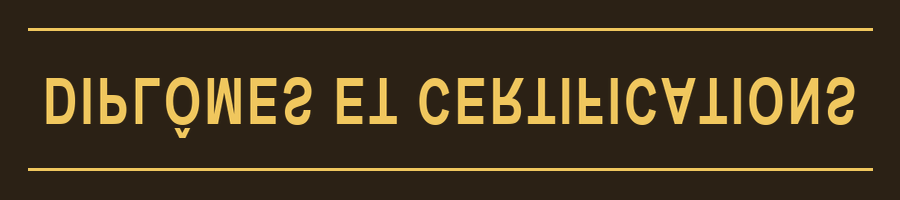
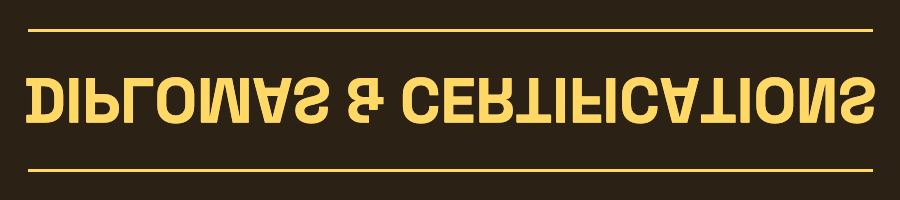
fix(café/décor): le bandeau des diplômes passe à l'anglais, les mains du client rejoignent son clavier, le cadre des télés s'élargit
Trois retouches signalées à l'œil par Simon, chacune vérifiée par la mesure et
non par l'impression.

LE BANDEAU — « DIPLÔMES ET CERTIFICATIONS » était le dernier français accroché
à un mur dans un café qui est anglais partout ailleurs, script et panneau texte
compris. Repeint en « DIPLOMAS & CERTIFICATIONS », même Space Grotesk gras,
mêmes filets, même or #ffd866 sur #2b2115, et toujours stocké v-flippé comme
tout ce qui vit sous tex/. La capitale monte de 40,6 à 44,1 px, soit +9 % — la
largeur est le plafond, pas le goût : la ligne est unique et l'anglais fait 25
signes contre 26. Plus gros demanderait un mot plus court ou une deuxième
ligne. LABEL_TEX_V passe à 5, sans quoi les visiteurs de retour garderaient
l'ancienne plaque en cache pendant des heures.

LES MAINS DU CLIENT AU COMPTOIR — mesurées dans la scène : poignets à y 1,206
à 1,218 pour un clavier à 1,231 et un comptoir à 1,218. Ils étaient donc 1,5 à
2,5 cm SOUS la surface, ce qui se voyait exactement comme ce que Simon a
photographié : des avant-bras qui traversent la table. En x et z ils tombaient
pourtant juste sur le clavier.
Le commentaire promettait une IK à deux segments résolue proprement. Elle
l'était — sur le papier. Le solveur planaire ignorait les .2 de roulis d'épaule
et les .09 de tangage de buste que cette même pose ajoute, et les deux
descendent la main. Un centimètre d'erreur, ici, sépare « il tape » de « il
passe au travers du meuble ».
[…]

Changed region(s): [[0.0311, 0.36, 0.9956, 0.69], [0.0311, 0.12, 0.9644, 0.18], [0.0311, 0.84, 0.9644, 0.87]]

diff --git a/index.html b/index.html
@@ -2761,10 +2761,19 @@ const texLoader=new THREE.TextureLoader();
    plaque for hours — which is exactly how « MON PALMARES » survived its own
    repaint on Simon's screen. A version in the query is a new URL, so every
    returning visitor gets the new paint on a plain reload. */
-const LABEL_TEX_V="4";   /* v3 un-mirrored the palmares banner (the bake
+const LABEL_TEX_V="5";   /* v3 un-mirrored the palmares banner (the bake
    was stored rotated 180° where flipY=false expects a v-flip only);
    v4 repaints it entirely — bold upright Space Grotesk, bigger and
-   brighter, because the engraved italic was unreadable from the room */
+   brighter, because the engraved italic was unreadable from the room;
+   v5 puts it in English. « DIPLÔMES ET CERTIFICATIONS » was the last
+   French left on a wall in a café that is English everywhere else, script
+   and panel included. The type went up with it, though only by 9% — the
+   banner is one line and the English runs 25 characters against 26, so
+   the width is the ceiling, not the design. Anything genuinely larger
+   wants a shorter word or a second line.
+   This file is hand-painted and NOT regenerated by preprocess_cafe_glb.py
+   (which only extracts what the exporter baked): re-run of the pipeline
+   will not bring the French back, but it will not repaint this either. */
 function labelTex(name){
   const t=texLoader.load("tex/"+name+".png?v="+LABEL_TEX_V);
   t.flipY=false;
@@ -4158,11 +4167,20 @@ function drawTV(t){
      · the big one on the bare green stretch right of the fridge, under
        the jar shelf (bottom of the shelf: y=2.25). Nothing else has ever
        hung there and the room reads empty on that side. */
-  /* The frame is 6 cm all round and the bezel is SIZED FROM THE PICTURE,
+  /* The frame is 10 cm all round and the bezel is SIZED FROM THE PICTURE,
      not the other way round: the old pair of hand-set outer sizes left
      4.3 cm above and below the small set and 3.9 cm on the big one, which
-     at room distance is not a frame, it is a rounding error. */
-  const FRAME=.06;
+     at room distance is not a frame, it is a rounding error.
+     Six was still too little. The bezel is a solid box and the picture is
+     a plane standing 7 mm proud of it — it HAS to be, or the two faces
+     z-fight — so a narrow border reads as an image laid ON the television
+     rather than set INTO it, and at a glance the picture looks like it
+     overflows its own set. Ten centimetres is a real surround: it costs
+     the small screen 7% of its picture and the big one 5%, and buys back
+     the one thing a television has to say for itself, which is where it
+     ends. Outer widths are untouched, so nothing moves on the wall and
+     the big set still clears the drinks fridge. */
+  const FRAME=.10;
   /* The big one is 1.70 m at x=5.85, not 2.06 m at 5.68: at that width
      and that spot its left third sat BEHIND the drinks fridge. The
      picture stands 7 mm proud of the frame, so it cleared the fridge a
@@ -6260,13 +6278,20 @@ function sitLayer(a,buf,dt){
   addPose(buf,SEAT_POSE,easeInOut(s.k));
 }
 /* ---- typing ----
-   These angles are SOLVED, not guessed. The old pair (-.62 shoulder,
-   -.95 elbow) put his wrists 12 cm below the keyboard and pointing into
-   the room: he was typing on thin air, a foot short of his own laptop.
-   Two-link IK against the real numbers — shoulder at y 1.335, keyboard
-   at 1.231 and .50 forward, upper arm .30, forearm .25 — gives shoulder
-   -1.044 and elbow -.794, which lands the wrist at (-.085, +.500) from
-   the shoulder: on the keys.
+   These angles are MEASURED in the running scene, which is not the same
+   thing as solved on paper. The first pair (-.62 shoulder, -.95 elbow)
+   put his wrists 12 cm below the keyboard and pointing into the room. The
+   second (-1.044 / -.794) came from a two-link IK — shoulder y 1.335,
+   keyboard 1.231 and .50 forward, upper arm .30, forearm .25 — and it was
+   still 1 to 3 cm SHORT: the planar solve does not know about the .2 of
+   shoulder roll or the .09 of chest pitch this same pose adds, and both
+   of them drop the hand. The counter top sits at 1.218 and the keys at
+   1.231, so a centimetre of error is the difference between typing and
+   reaching through the furniture — which is exactly what it looked like.
+   Swept live against the rig instead: the shoulder alone opens to -1.16
+   and the wrist lands 2.7 cm ABOVE the keys, hands resting on them, with
+   room to spare for what breathing and the key-strike wobble take back.
+   The elbow keeps its IK value; only the term the IK could not see moved.
    The wrists then pronate (#45) so the palms face DOWN on the keyboard
    rather than inward at each other, and bend to lay the fingers on the
    keys (#57, #72) — the hands are built palm-to-thigh, which is right
@@ -6277,7 +6302,7 @@ function typingLayer(a,buf,ac){
      "thinking about the sentence" */
   const amp=Math.sin(ac*.9)>.86?0:1;
   addPose(buf,{
-    shoulderL:{x:-1.044,z:.2},shoulderR:{x:-1.044,z:-.2},
+    shoulderL:{x:-1.16,z:.2},shoulderR:{x:-1.16,z:-.2},
     elbowL:{x:-.794},elbowR:{x:-.794},
     wristL:{x:1.20+Math.sin(ac*21.7)*.05*amp,y:-1.5},
     wristR:{x:1.20+Math.sin(ac*24.3+1.3)*.05*amp,y:1.5},
